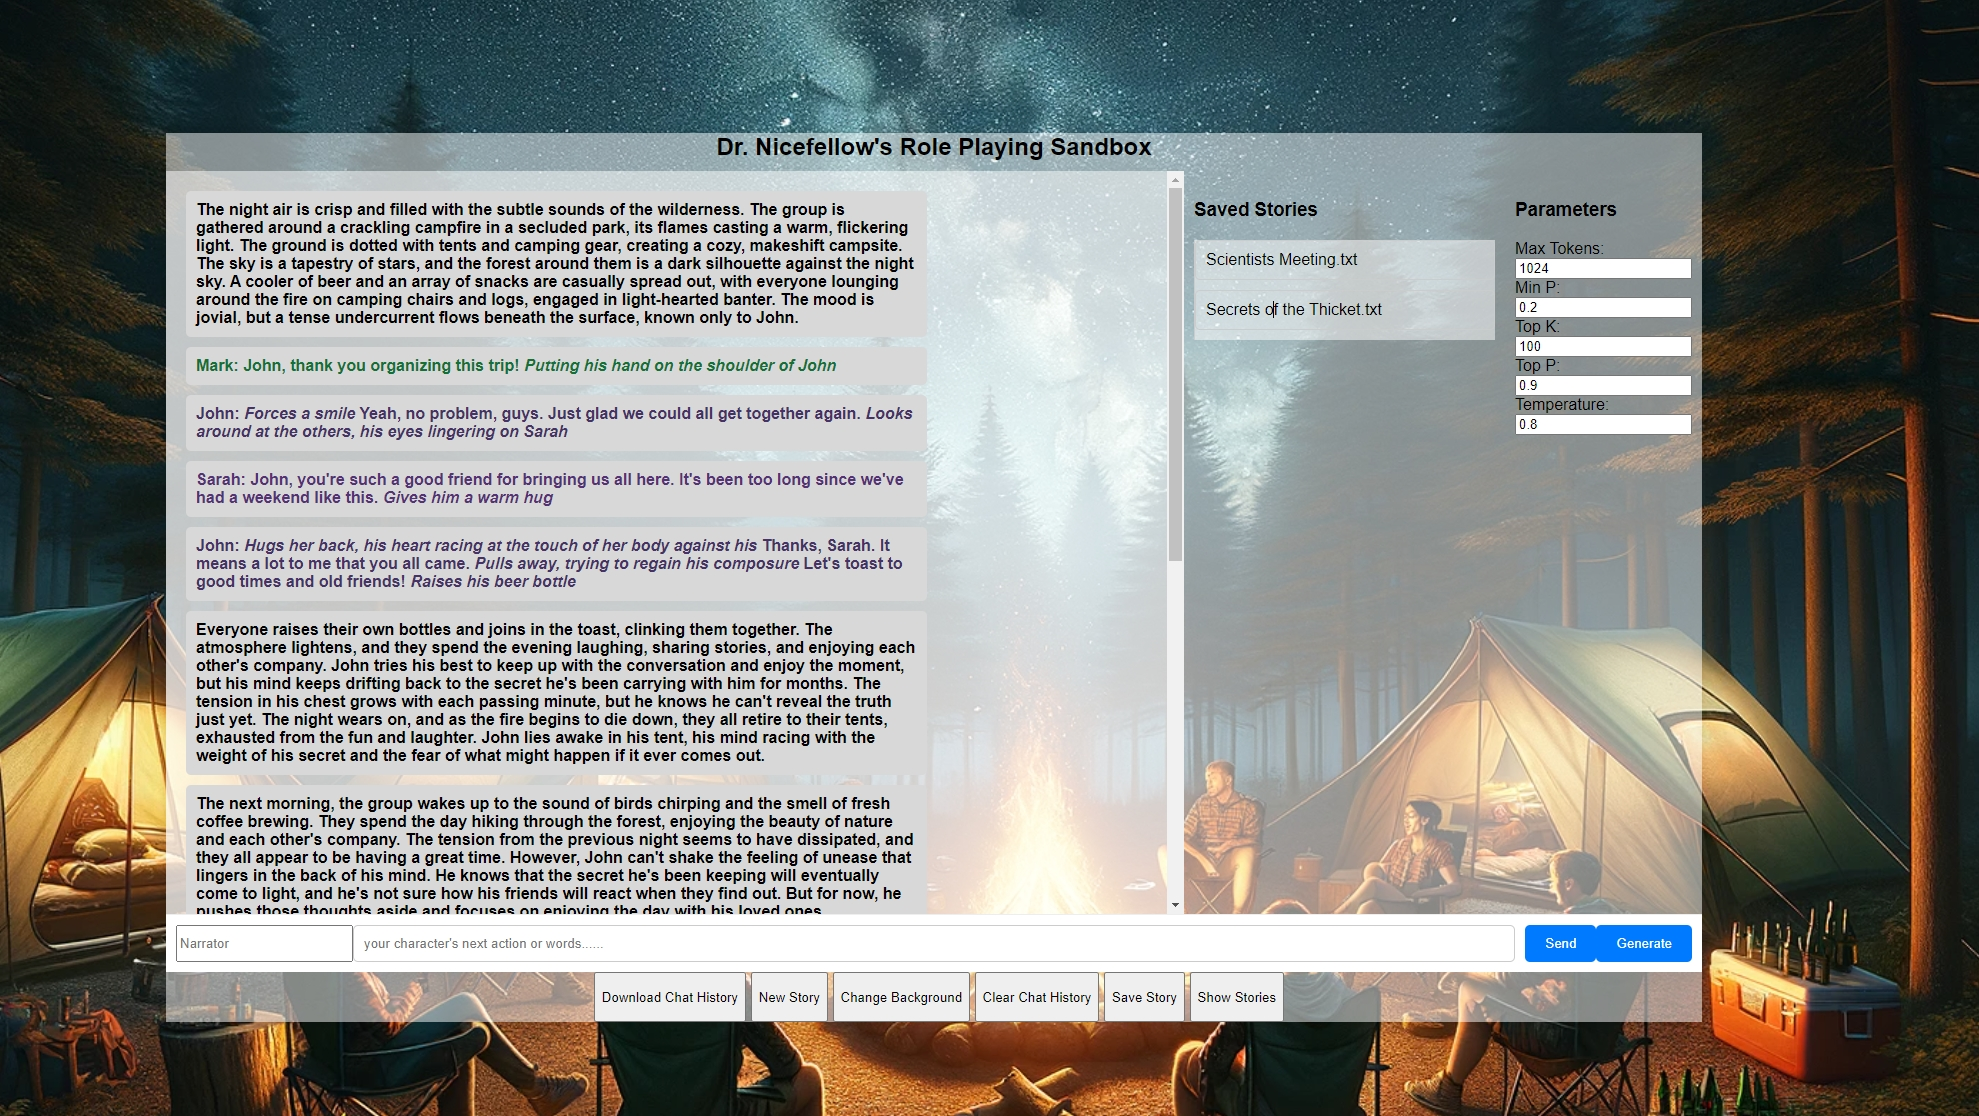
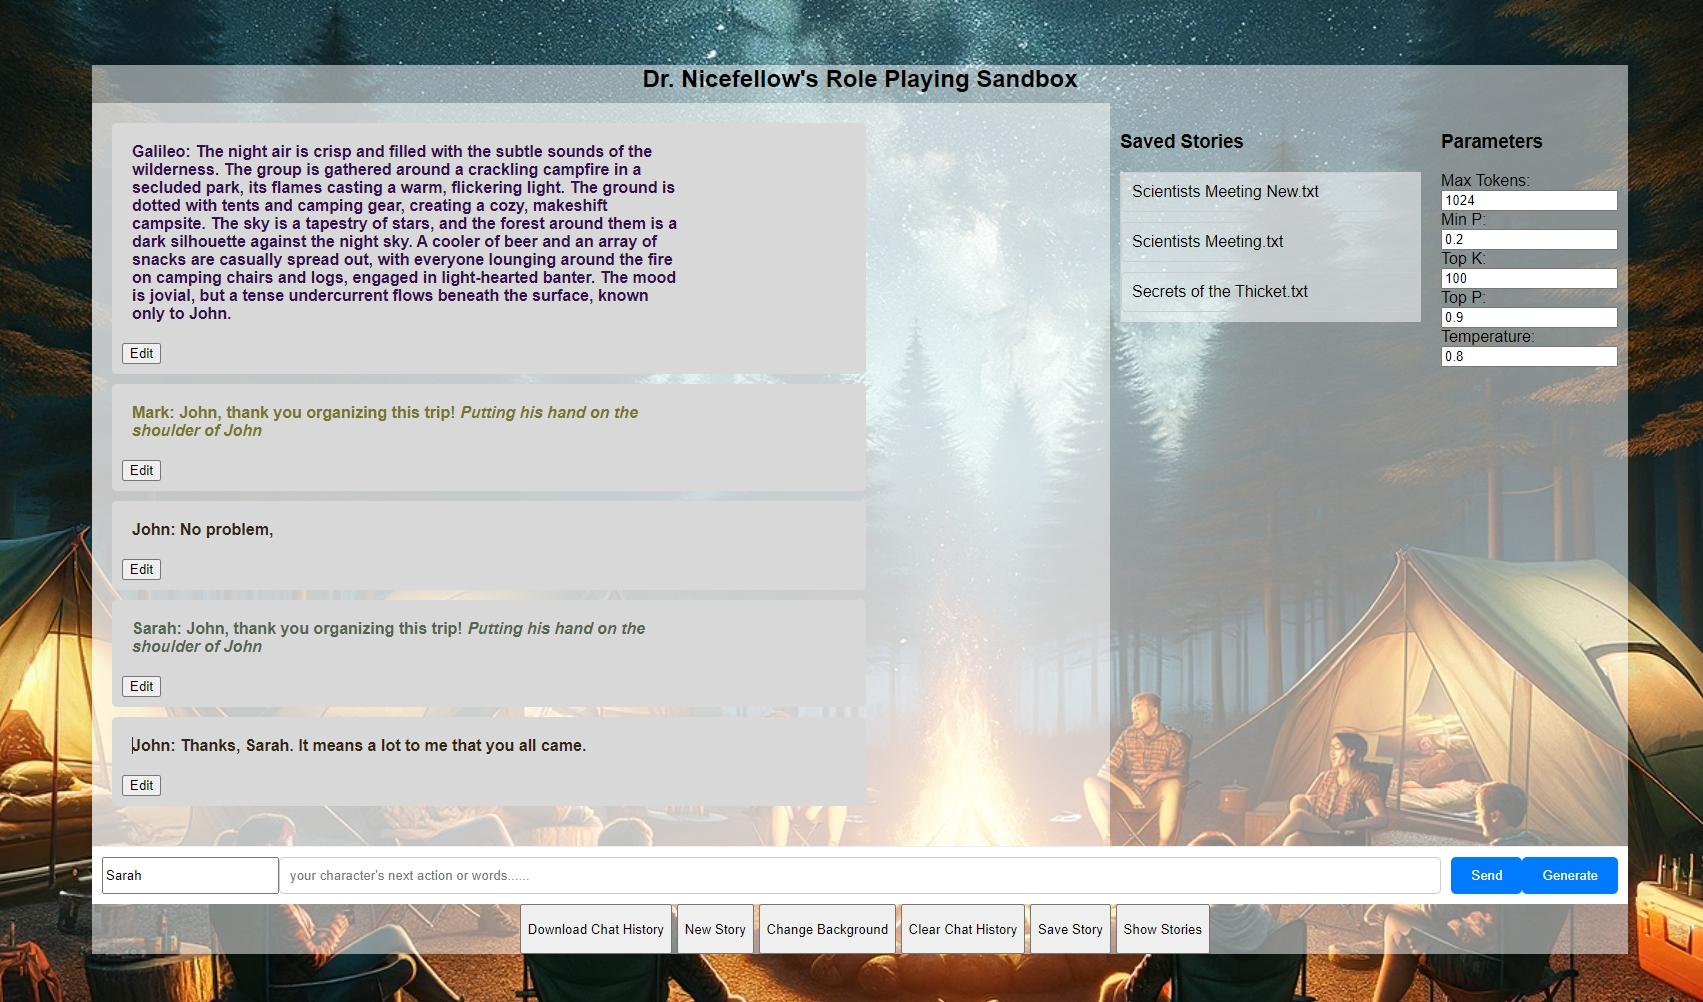
allow history editing

diff --git a/static/js/chat.js b/static/js/chat.js
@@ -68,6 +68,7 @@ function editTalk(talkDiv) {
     let inputField = document.createElement('input');
     inputField.type = 'text';
     inputField.value = currentTalk;
+    inputField.style.width = '100%'; // Make the input field as wide as its parent container
 
     // Clear the HTML content of the div
     talkDiv.innerHTML = '';

diff --git a/README.md b/README.md
@@ -42,7 +42,7 @@ This repository comes with two role play scenarios for you to explore. We are co
 
 - [x] Add start batch file for Windows
 - [x] Add host parameter control to the Web UI
-- [ ] Add function for users to modify chat history
+- [x] Add function for users to modify chat history
 - [ ] Add a feature to allow users to customize the chatbot's behavior
 
 ## License
